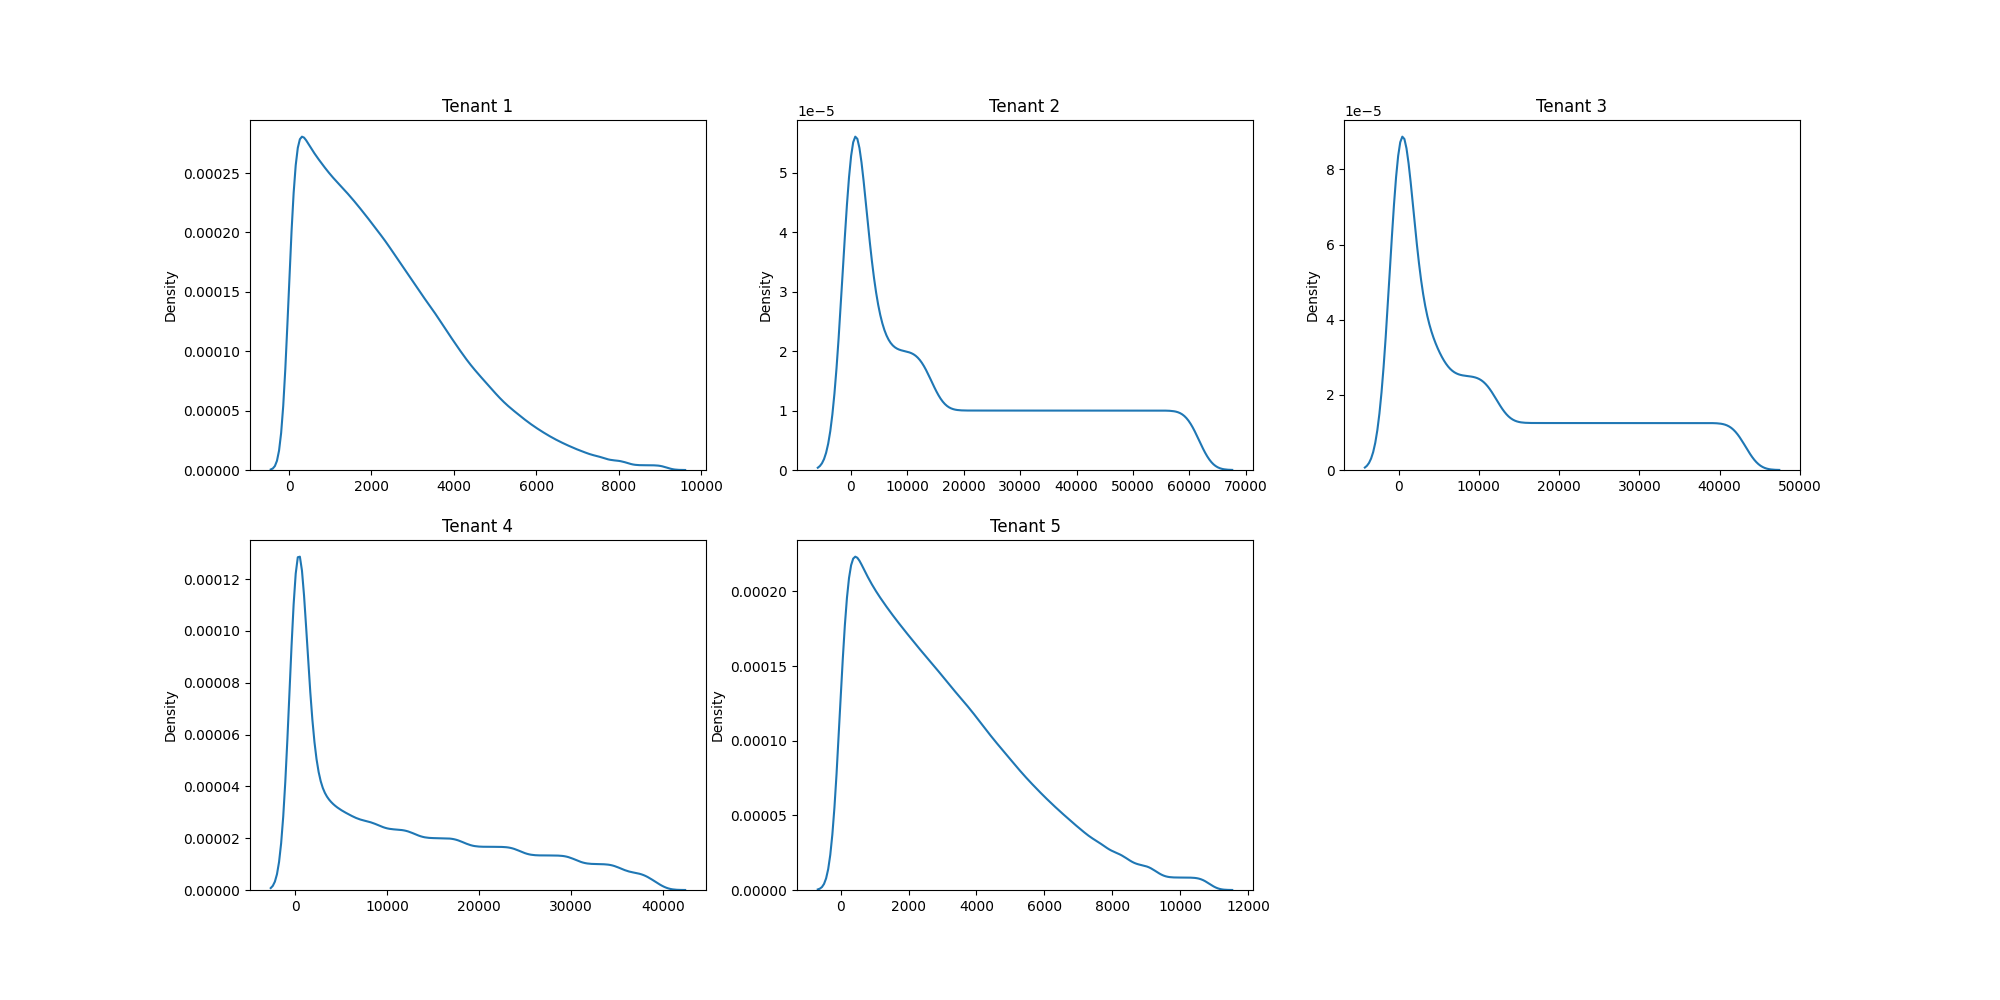
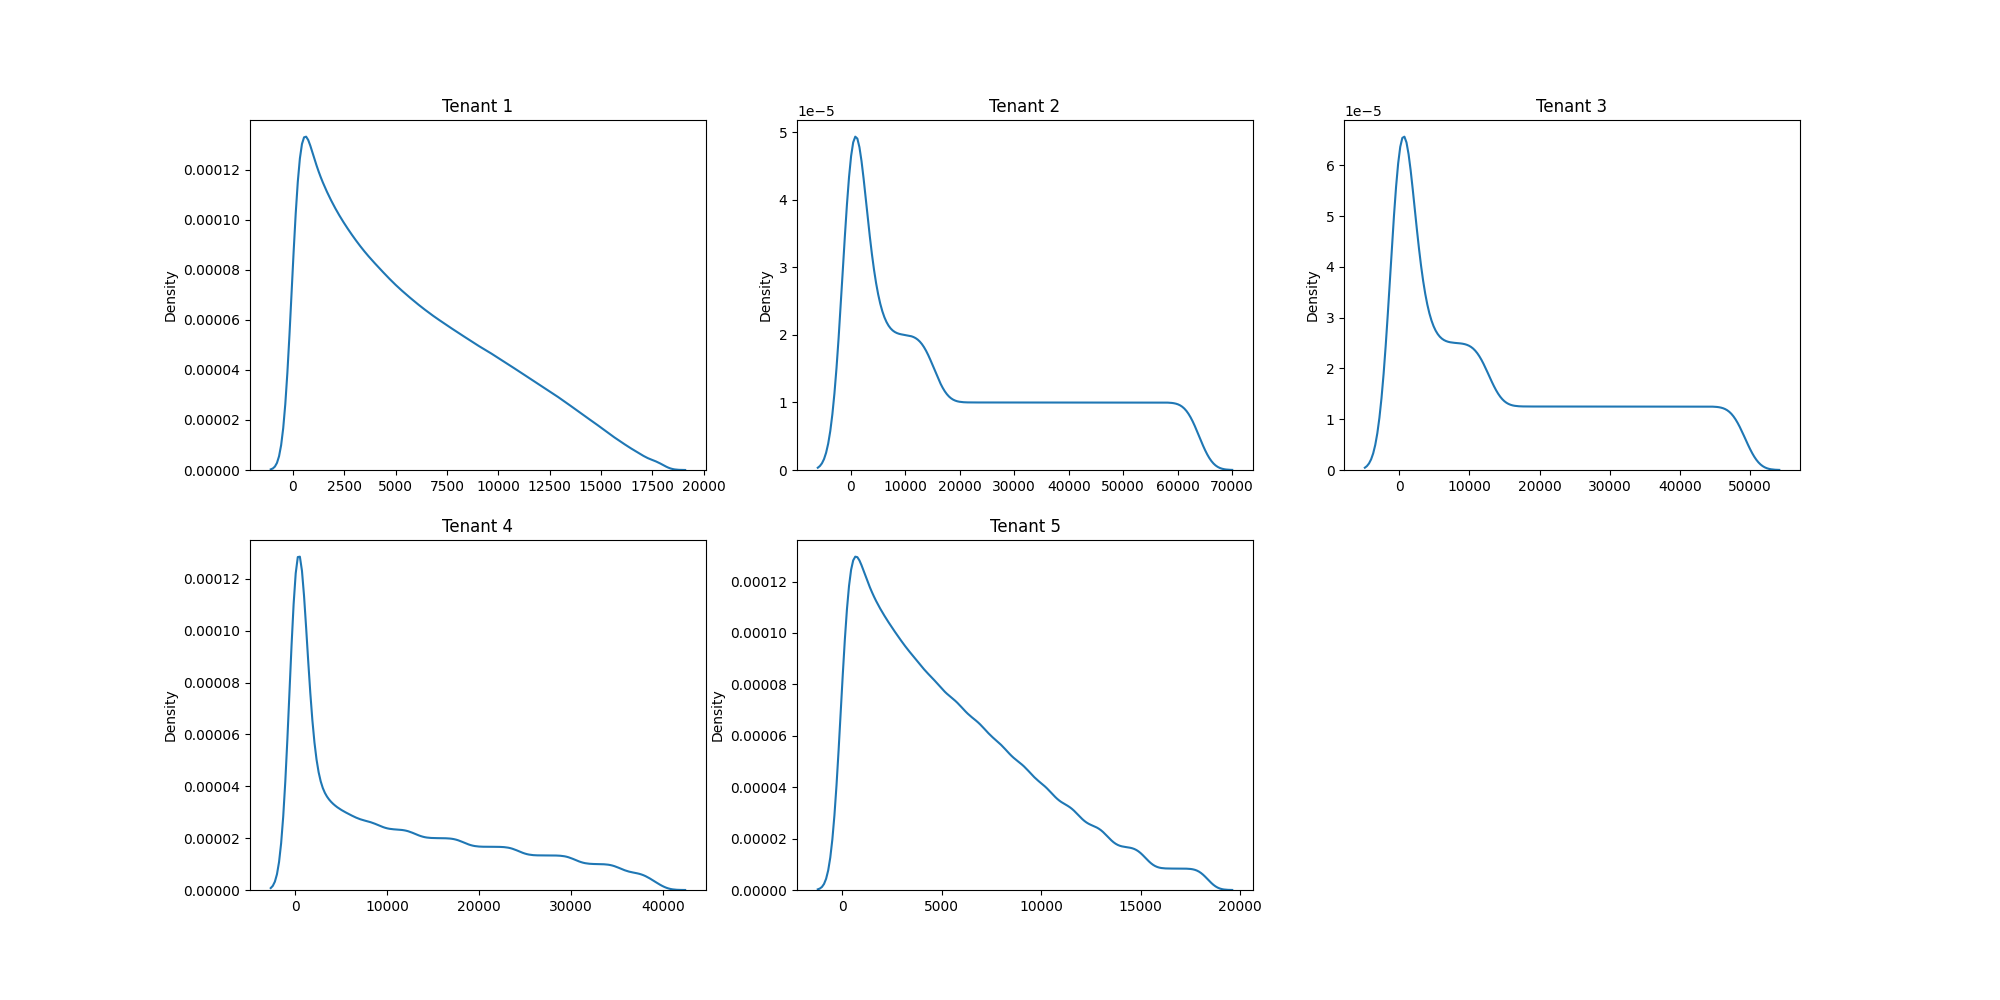
feat/modify-test-9

diff --git a/test_cases/test_case_9/description.py b/test_cases/test_case_9/description.py
@@ -9,17 +9,16 @@ tenants = [
         'minimum_buffer_size': 4000,
         'base_buffer_size': 10000,
         'maximum_buffer_size': 25000,
-        'page_accesses_dist': {
+        'page_accesses_dist': [
+          {
             'type': 'normal',
             'variance': 3000,
-            'length': 250000,
-        },
-        'pages_should_be_renumbered': False,
-        'page_accesses_interval_dist': {
-            'type': 'uniform',
-            'length': 250000,
-            'max_value': 1,
-        },
+            'length': 50000,
+            'interval_type': 'uniform',
+            'interval_max_value': 1,
+          },
+        ] * 5,
+        'pages_should_be_renumbered': True,
     },
     {
         'tenant_id': 2,
@@ -28,17 +27,16 @@ tenants = [
         'minimum_buffer_size': 3000,
         'base_buffer_size': 7500,
         'maximum_buffer_size': 18000,
-        'page_accesses_dist': {
+        'page_accesses_dist': [
+          {
             'type': 'zipfian',
             'parameter': 1.01,
-            'length': 100000,
-        },
-        'pages_should_be_renumbered': False,
-        'page_accesses_interval_dist': {
-            'type': 'uniform',
-            'length': 100000,
-            'max_value': 1,
-        },
+            'length': 50000,
+            'interval_type': 'uniform',
+            'interval_max_value': 1,
+          },
+        ] * 2,
+        'pages_should_be_renumbered': True,
     },
     {
         'tenant_id': 3,
@@ -47,17 +45,16 @@ tenants = [
         'minimum_buffer_size': 2500,
         'base_buffer_size': 6000,
         'maximum_buffer_size': 15000,
-        'page_accesses_dist': {
+        'page_accesses_dist': [
+          {
             'type': 'pareto',
             'parameter': 0.04,
-            'length': 80000,
-        },
-        'pages_should_be_renumbered': False,
-        'page_accesses_interval_dist': {
-            'type': 'uniform',
-            'length': 80000,
-            'max_value': 1,
-        },
+            'length': 20000,
+            'interval_type': 'uniform',
+            'interval_max_value': 1,
+          },
+        ] * 4,
+        'pages_should_be_renumbered': True,
     },
     {
         'tenant_id': 4,
@@ -66,17 +63,16 @@ tenants = [
         'minimum_buffer_size': 5000,
         'base_buffer_size': 12500,
         'maximum_buffer_size': 30000,
-        'page_accesses_dist': {
+        'page_accesses_dist': [
+          {
             'type': 'zipfian',
             'parameter': 1.005,
             'length': 300000,
-        },
+            'interval_type': 'uniform',
+            'interval_max_value': 1,
+          },
+        ],
         'pages_should_be_renumbered': False,
-        'page_accesses_interval_dist': {
-            'type': 'uniform',
-            'length': 300000,
-            'max_value': 1,
-        },
     },
     {
         'tenant_id': 5,
@@ -85,17 +81,16 @@ tenants = [
         'minimum_buffer_size': 3000,
         'base_buffer_size': 7500,
         'maximum_buffer_size': 18000,
-        'page_accesses_dist': {
+        'page_accesses_dist': [
+          {
             'type': 'normal',
             'variance': 4000,
-            'length': 120000,
-        },
-        'pages_should_be_renumbered': False,
-        'page_accesses_interval_dist': {
-            'type': 'uniform',
-            'length': 120000,
-            'max_value': 1,
-        },
+            'length': 60000,
+            'interval_type': 'uniform',
+            'interval_max_value': 1,
+          },
+        ] * 2,
+        'pages_should_be_renumbered': True,
     },
 ]
 
